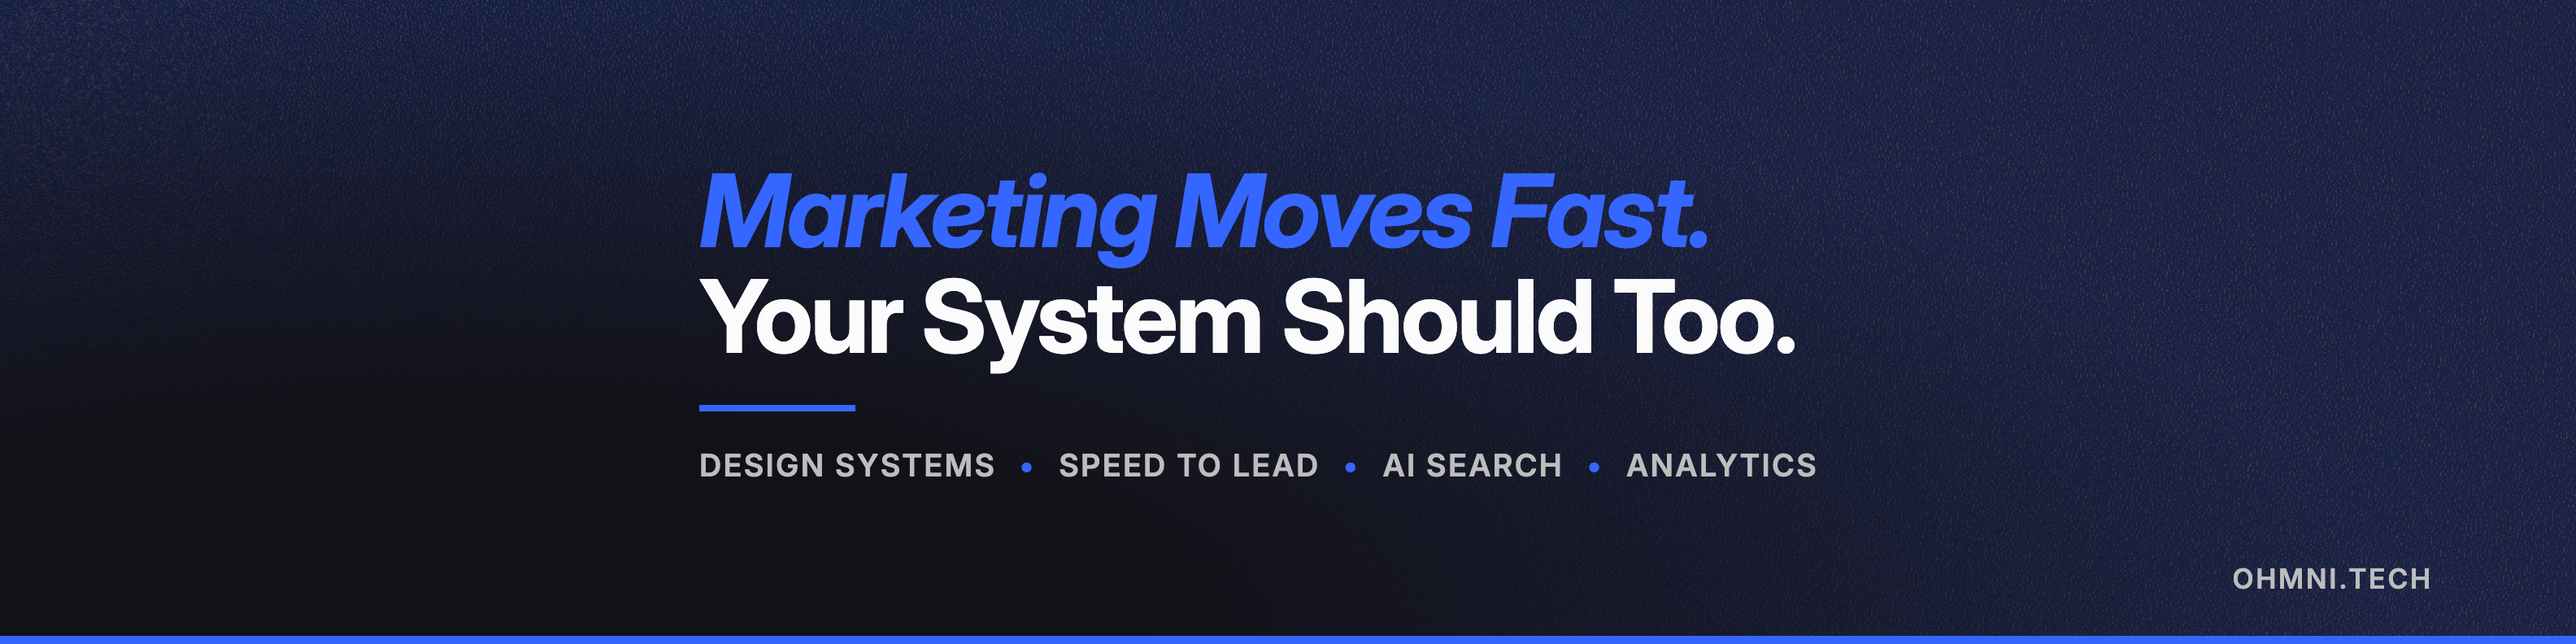
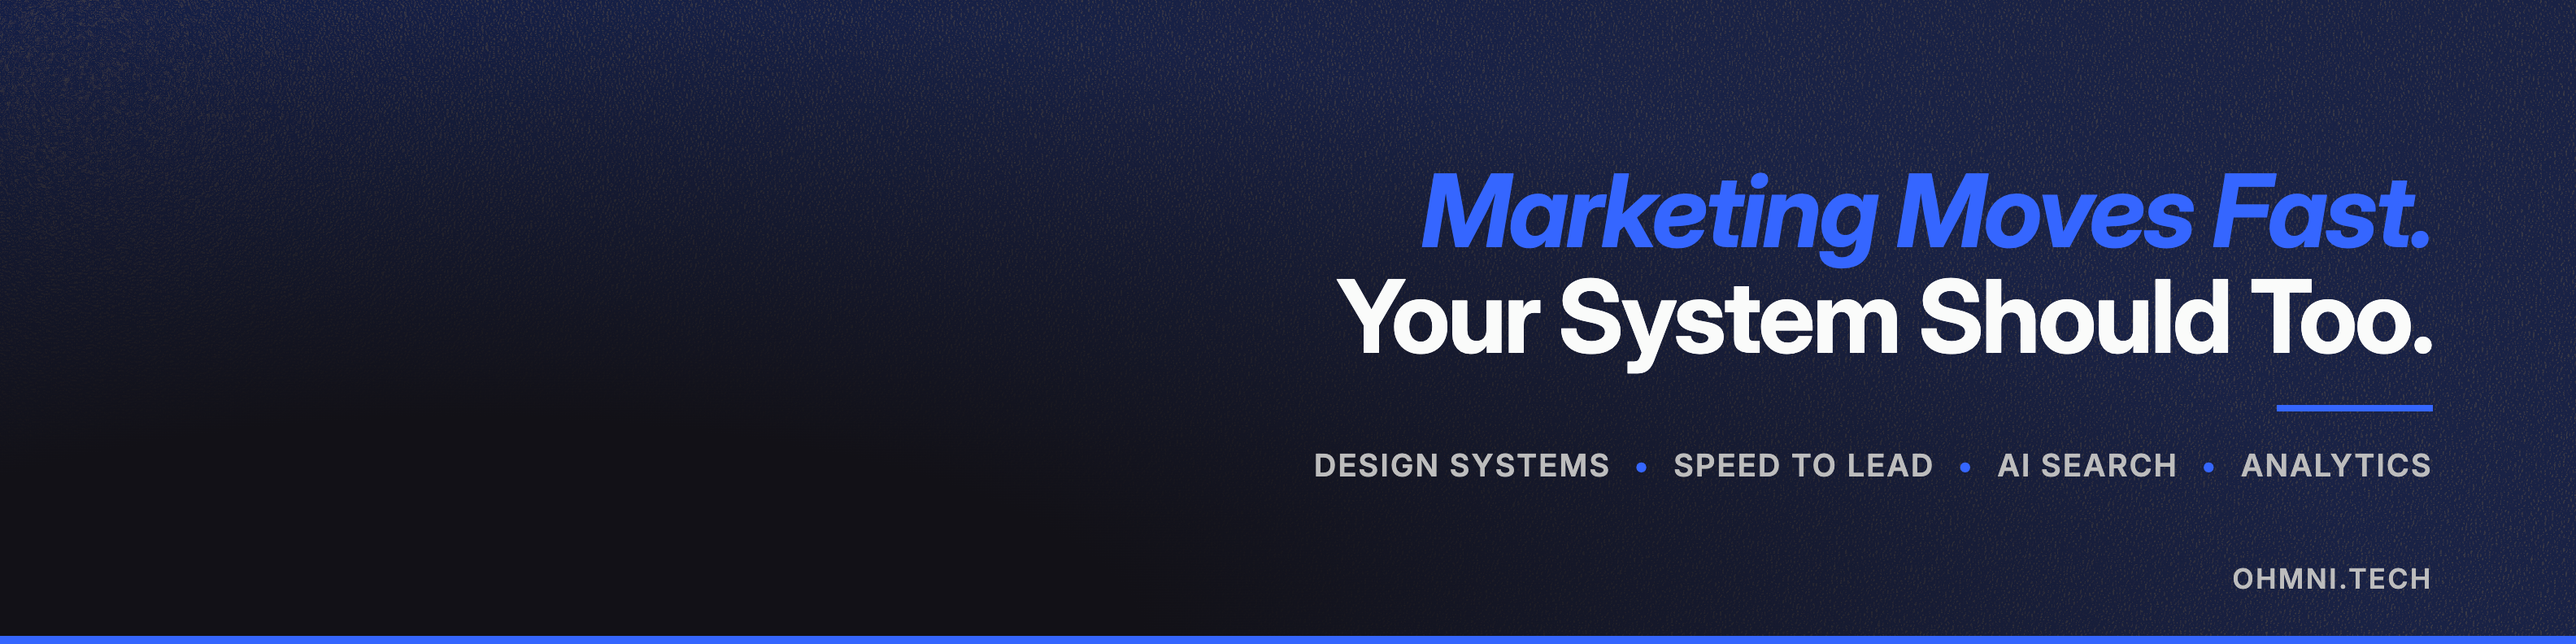
LinkedIn cover: right-align the text block

diff --git a/documents/linkedin/cover.html b/documents/linkedin/cover.html
@@ -49,6 +49,8 @@
     display: flex;
     flex-direction: column;
     justify-content: center;
+    align-items: flex-end;
+    text-align: right;
     gap: 22px;
   }
 
